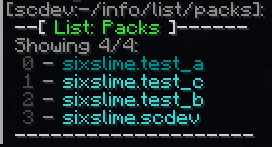
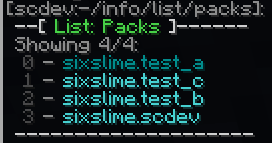
-

diff --git a/admin_guide/using_scdev.md b/admin_guide/using_scdev.md
@@ -115,7 +115,7 @@ function scdev:-/info/list/entrypoints {args:{count:5, page:2, pack_filter:{only
 
 *Example of `/function scdev:-/info/list/packs {args:{}}` output:*
 
-![Screenshot of list output](../_assets/images/list_packs.png)
+![Screenshot of output](../_assets/images/list_packs.png)
 
 ### Individual Pack Info
 
@@ -139,6 +139,8 @@ function scdev:-/info/pack {args:{pack_id:"foo"}}
 function scdev:-/info/slimecore
 ```
 
+*Example of `/function scdev:-/info/pack {args:{pack_id:"scdev"}}` output:*
 
+![Screenshot of output](../_assets/images/pack_info.png)
 
 ###
